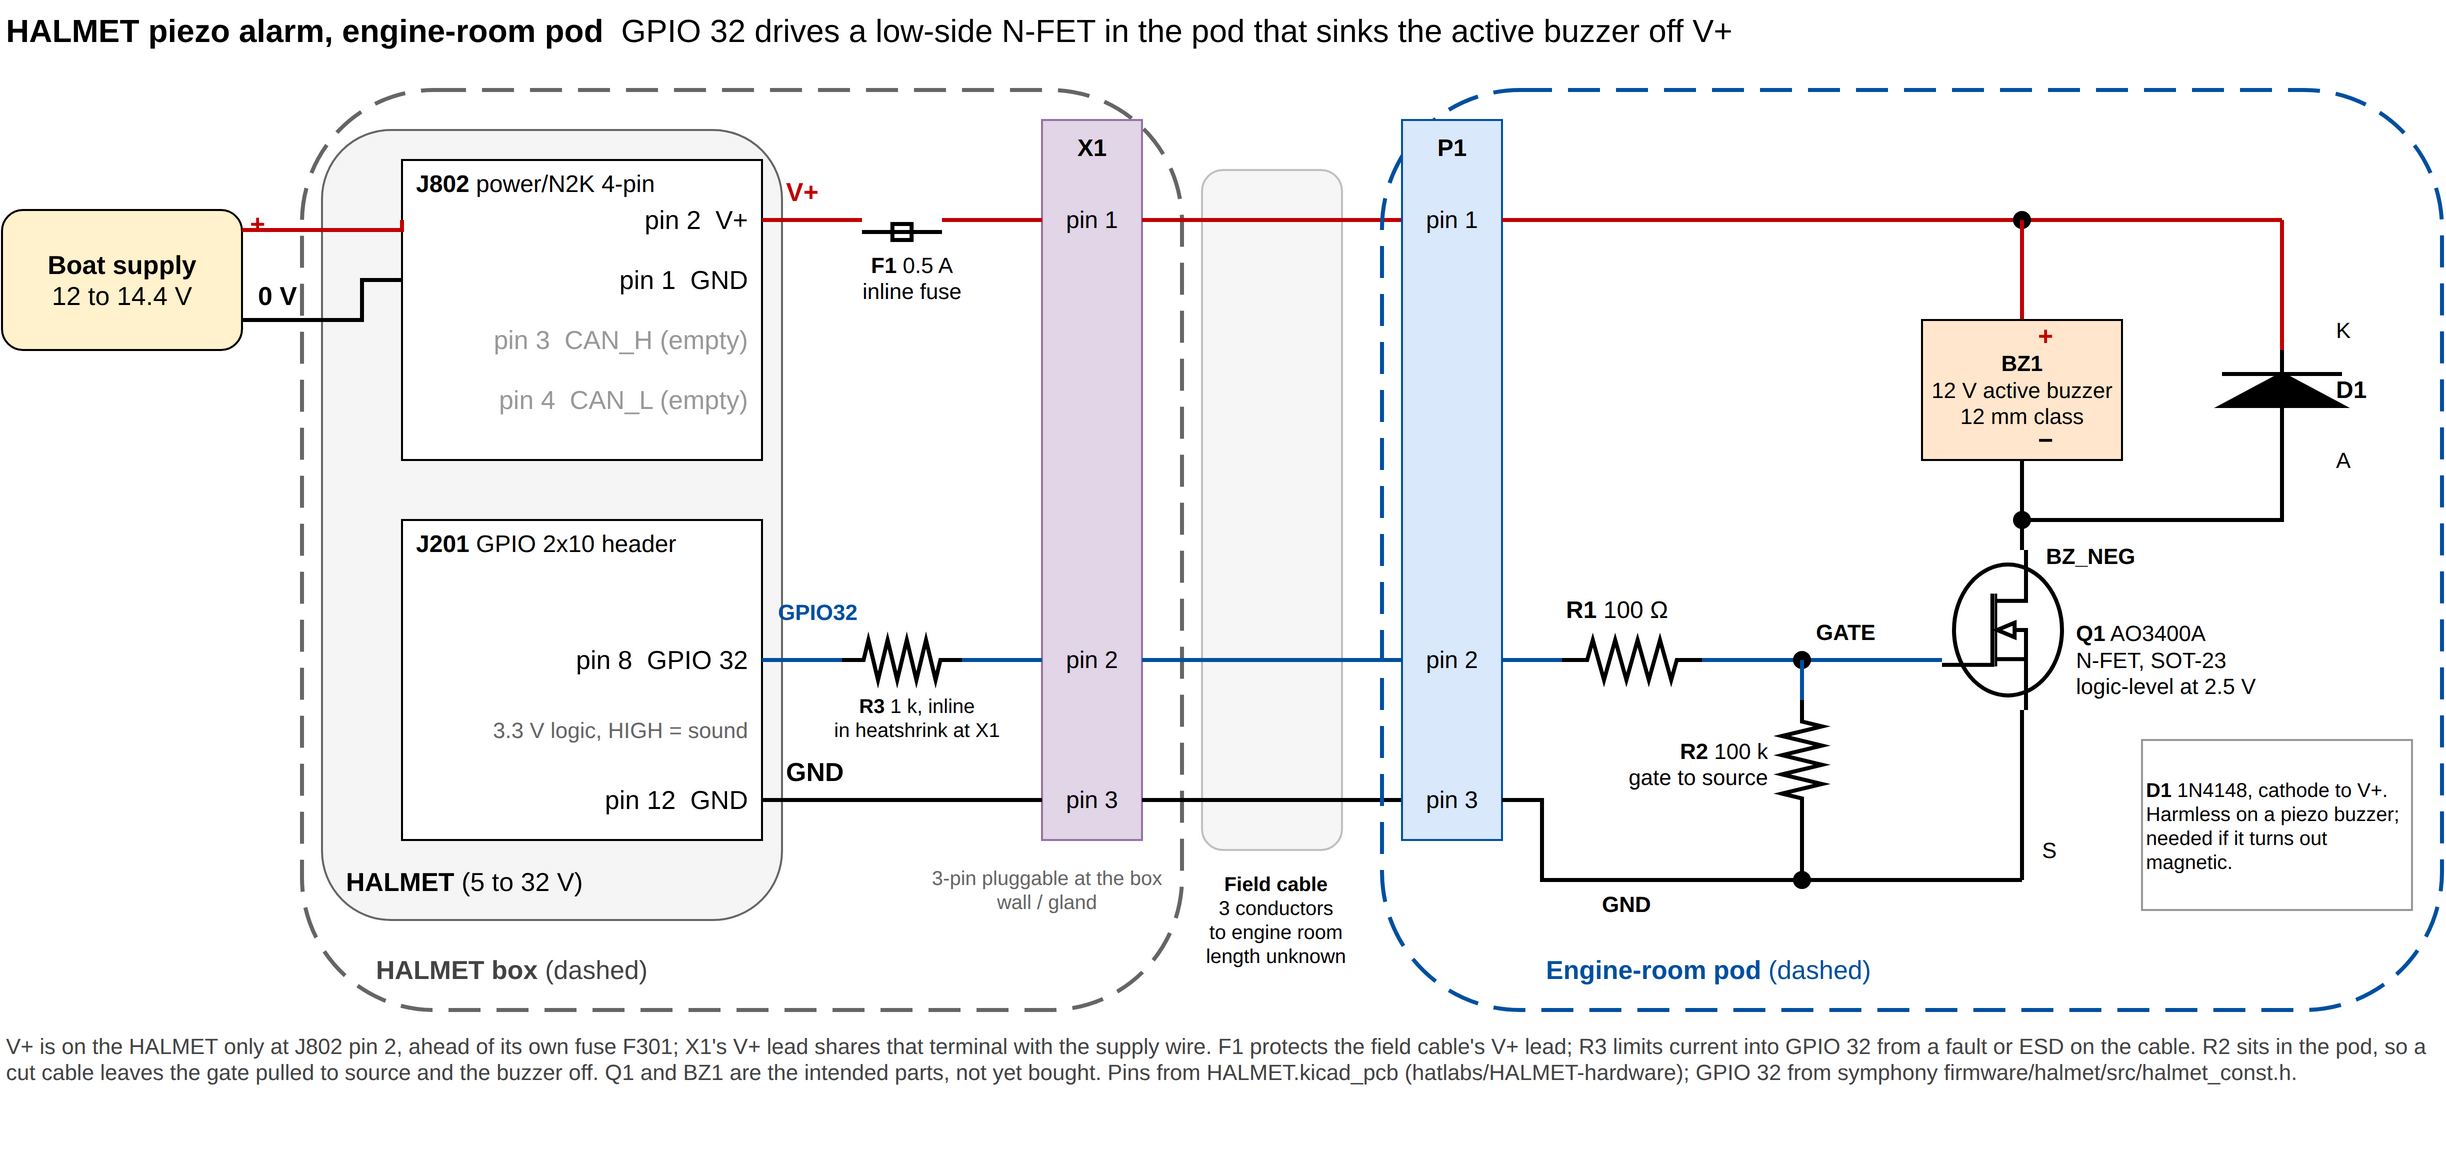
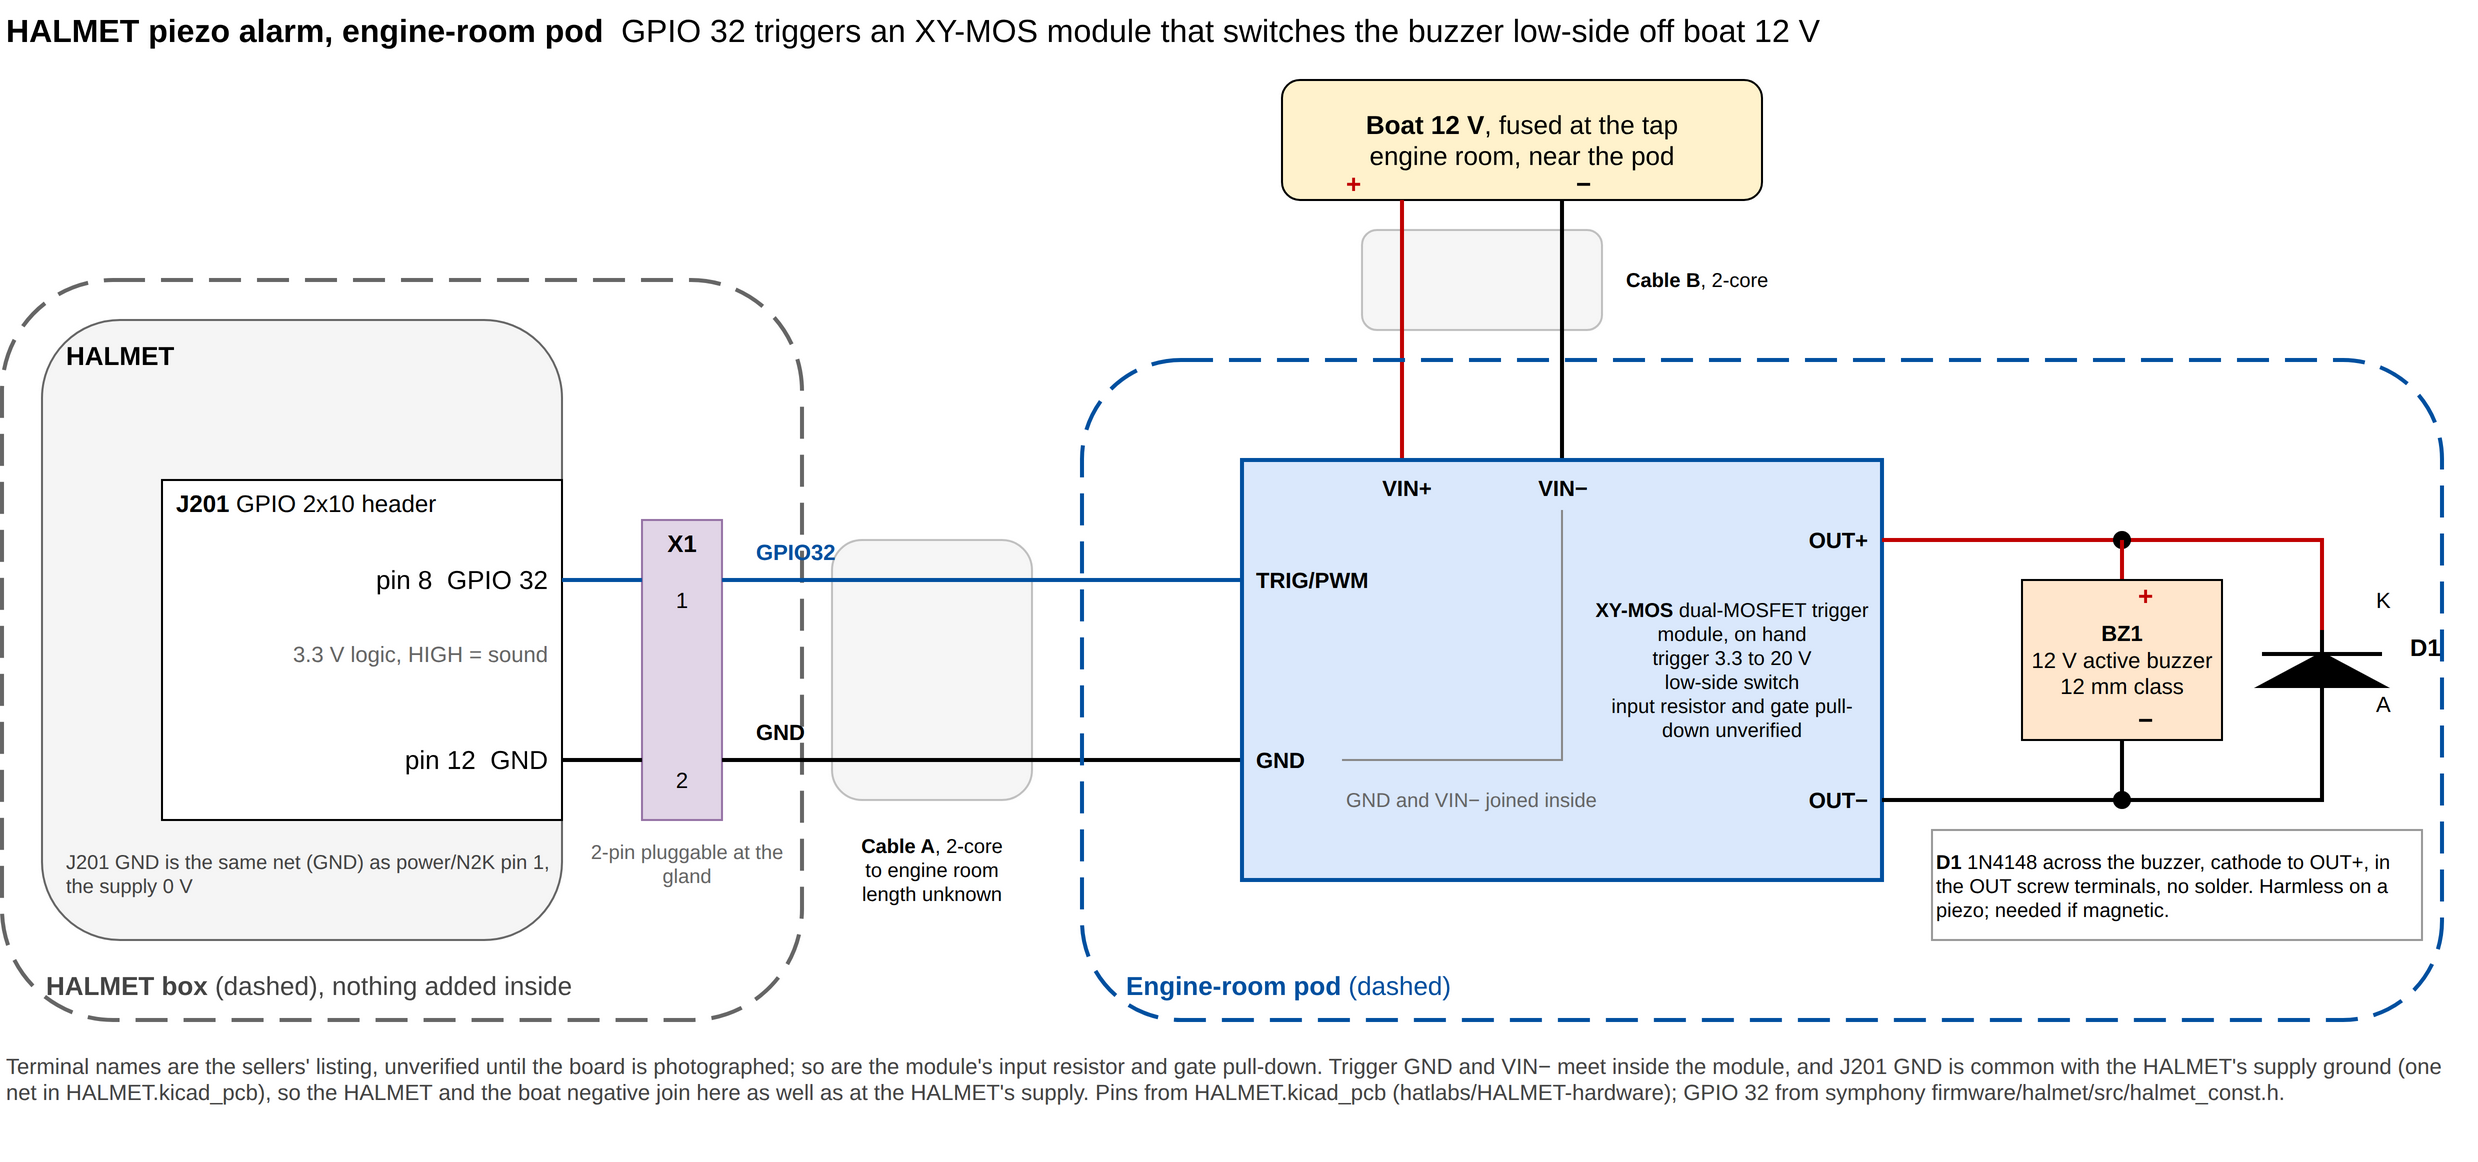
halmet-piezo-pod: XY-MOS trigger module, pod fed from fused boat 12 V, nothing added in the HALMET box

diff --git a/projects/halmet-piezo-pod/README.md b/projects/halmet-piezo-pod/README.md
@@ -47,22 +47,22 @@ Nothing is measured. The box gives room instead.
 
 ![piezo alarm](out/piezo-alarm.png)
 
-Source: [`piezo-alarm.drawio`](piezo-alarm.drawio). GPIO 32 HIGH turns on a low-side N-FET that sinks the buzzer's negative lead off V+, as symphony's firmware has it.
-The gate resistor, the 100 k gate-to-source pull-down, the FET, the 1N4148 and the buzzer all sit in the pod in the engine room; with the pull-down there, a cut cable leaves the buzzer off.
-The diode, cathode to V+, is harmless on a piezo-type buzzer and needed only if the buzzer turns out to be magnetic.
-Intended parts, not yet bought: AO3400A FET (SOT-23, logic-level at 2.5 V), a 12 V active buzzer of the 12 mm class.
-V+ reaches the inside of the HALMET box only at the power/N2K terminal, pin 2, ahead of the HALMET's own fuse (F301); no header or other terminal pin carries it, so X1's V+ lead shares that terminal with the supply wire.
-Inside the HALMET box, F1, a 0.5 A inline fuse, protects the field cable's V+ lead, which the HALMET's own fuse does not cover; R3, 1 k inline in heatshrink at X1, limits current into GPIO 32 from a fault or ESD on the cable.
+Source: [`piezo-alarm.drawio`](piezo-alarm.drawio). GPIO 32 HIGH triggers the XY-MOS dual-MOSFET trigger module (on hand; trigger 3.3 to 20 V), which switches the buzzer low-side off boat 12 V, as symphony's firmware has it.
+Nothing is added inside the HALMET box: only GPIO 32 and GND leave it, through a 2-pin pluggable at the gland, on a 2-core cable to the engine room.
+The pod's 12 V comes from a boat 12 V feed near the pod, fused at the tap, on its own 2-core cable.
+The module's terminal names are the sellers' listing, and its input resistor and gate pull-down are unverified; a photo of the board settles both.
+D1, a 1N4148 across the buzzer, cathode to OUT+, sits in the OUT screw terminals with the buzzer leads, no solder. It is harmless on a piezo-type buzzer and needed only if the buzzer turns out to be magnetic.
+Trigger GND and VIN− meet inside the module. The HALMET's J201 GND is common with its supply ground: J201 pins 3, 12, 14, 16, 18 and power/N2K pin 1 are all one net, `GND`, in `HALMET.kicad_pcb` (the isolated `GND1` serves only the A and D inputs). So the HALMET's ground and the boat negative join in the module as well as at the HALMET's supply.
+Intended buzzer, not yet bought: 12 V active buzzer, 12 mm class.
 HALMET pin numbers are from `HALMET.kicad_pcb` (hatlabs/HALMET-hardware) pad nets, read 2026-11-23.
 
 | From | To | Net |
 |---|---|---|
-| HALMET power/N2K 4-pin, 2 (shared with the supply wire) | F1 0.5 A inline fuse, then X1 pin 1 | V+ |
-| HALMET GPIO 2x10, 8 | R3 1 k inline, in heatshrink at X1, then X1 pin 2 | GPIO 32 |
-| HALMET GPIO 2x10, 12 | X1 pin 3 | GND |
-| X1 pins 1, 2, 3 | field cable, 3 conductors, to engine room, length unknown | V+, GPIO 32, GND |
-| Field cable | pod P1 pins 1, 2, 3 | V+, GPIO 32, GND |
-| P1 pin 1 | buzzer +, D1 cathode | V+ |
-| P1 pin 2 | R1 100 Ω, then Q1 gate; R2 100 k gate to source | GATE |
-| P1 pin 3 | Q1 source, R2 | GND |
-| Q1 drain | buzzer −, D1 anode | BZ_NEG |
+| HALMET GPIO 2x10, 8 | X1 pin 1, at the gland | GPIO 32 |
+| HALMET GPIO 2x10, 12 | X1 pin 2 | GND |
+| X1 pins 1, 2 | cable A, 2-core, to engine room, length unknown | GPIO 32, GND |
+| Cable A | module TRIG/PWM, GND | GPIO 32, GND |
+| Boat 12 V +, fused at the tap | cable B, then module VIN+ | 12 V |
+| Boat 12 V − | cable B, then module VIN− | boat negative |
+| Module OUT+ | buzzer +, D1 cathode | 12 V |
+| Module OUT− | buzzer −, D1 anode | switched negative |
